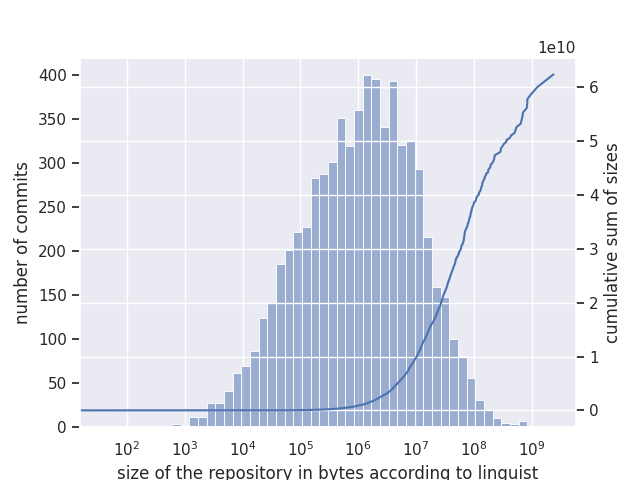
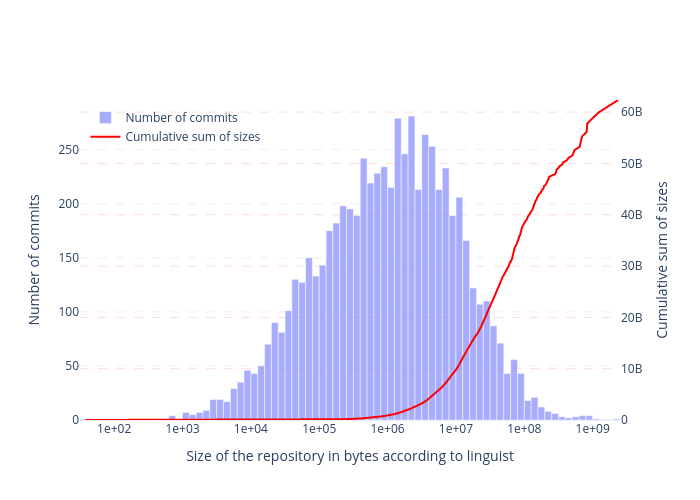
switch to plotly

diff --git a/eyeballvul_experiments/eyeballvul_stats.py b/eyeballvul_experiments/eyeballvul_stats.py
@@ -2,9 +2,9 @@
 
 from typing import cast
 
-import matplotlib.pyplot as plt
+import numpy as np
 import pandas as pd
-import seaborn as sns
+import plotly.graph_objects as go
 from eyeballvul import EyeballvulRevision, get_commits, get_revision
 
 from eyeballvul_experiments.config.config_loader import Config
@@ -14,27 +14,62 @@ def repo_size_histogram():
     commits = get_commits()
     sizes = sorted([cast(EyeballvulRevision, get_revision(commit)).size for commit in commits])
     df = pd.DataFrame({"sizes": sizes})
+    df["log_sizes"] = np.log10(df["sizes"])
     df["cumulative_sum"] = df["sizes"].cumsum()
 
-    sns.set_theme()
-    fig, ax = plt.subplots()
+    fig = go.Figure()
 
-    sns.histplot(data=df["sizes"], kde=True, log_scale=True, ax=ax)
+    fig.add_trace(
+        go.Histogram(
+            x=df["log_sizes"],
+            name="Number of commits",
+            nbinsx=100,
+            opacity=0.75,
+            marker=dict(color="rgb(138, 146, 251)", line=dict(color="white", width=0.5)),
+        )
+    )
 
-    ax2 = ax.twinx()
+    fig.add_trace(
+        go.Scatter(
+            x=df["log_sizes"],
+            y=df["cumulative_sum"],
+            mode="lines",
+            name="Cumulative sum of sizes",
+            yaxis="y2",
+            marker=dict(color="rgb(255, 0, 0)"),
+        )
+    )
 
-    sns.lineplot(data=df, x="sizes", y="cumulative_sum", ax=ax2)
+    fig.update_layout(
+        xaxis=dict(
+            title="Size of the repository in bytes according to linguist",
+            tickmode="array",
+            tickvals=np.log10(
+                [10**i for i in range(int(df["log_sizes"].min()), int(df["log_sizes"].max()) + 1)]
+            ),
+            ticktext=[
+                f"{10**i:.0e}"
+                for i in range(int(df["log_sizes"].min()), int(df["log_sizes"].max()) + 1)
+            ],
+            type="linear",
+        ),
+        yaxis=dict(
+            title="Number of commits",
+            gridcolor="rgba(138, 146, 251, 0.15)",
+            griddash="dash",
+        ),
+        yaxis2=dict(
+            title="Cumulative sum of sizes",
+            overlaying="y",
+            side="right",
+            range=[0, df["cumulative_sum"].max()],
+            gridcolor="rgba(255, 0, 0, 0.15)",
+            griddash="dash",
+        ),
+        template="plotly_white",
+        legend=dict(
+            x=0.01, y=0.99, bgcolor="rgba(255, 255, 255, 0)", bordercolor="rgba(255, 255, 255, 0)"
+        ),
+    )
 
-    ax.set_xscale("log")
-
-    # Left y axis
-    ax.set_xlabel("size of the repository in bytes according to linguist")
-    ax.set_ylabel("number of commits")
-
-    # Right y axis
-    ax2.set_ylabel("cumulative sum of sizes")
-
-    # Remove the horizontal lines for the left y axis
-    ax.grid(which="both", axis="y", linestyle="")
-
-    plt.savefig(Config.paths.plots / "repo_size_histogram.png")
+    fig.write_image(Config.paths.plots / "repo_size_histogram.png")
